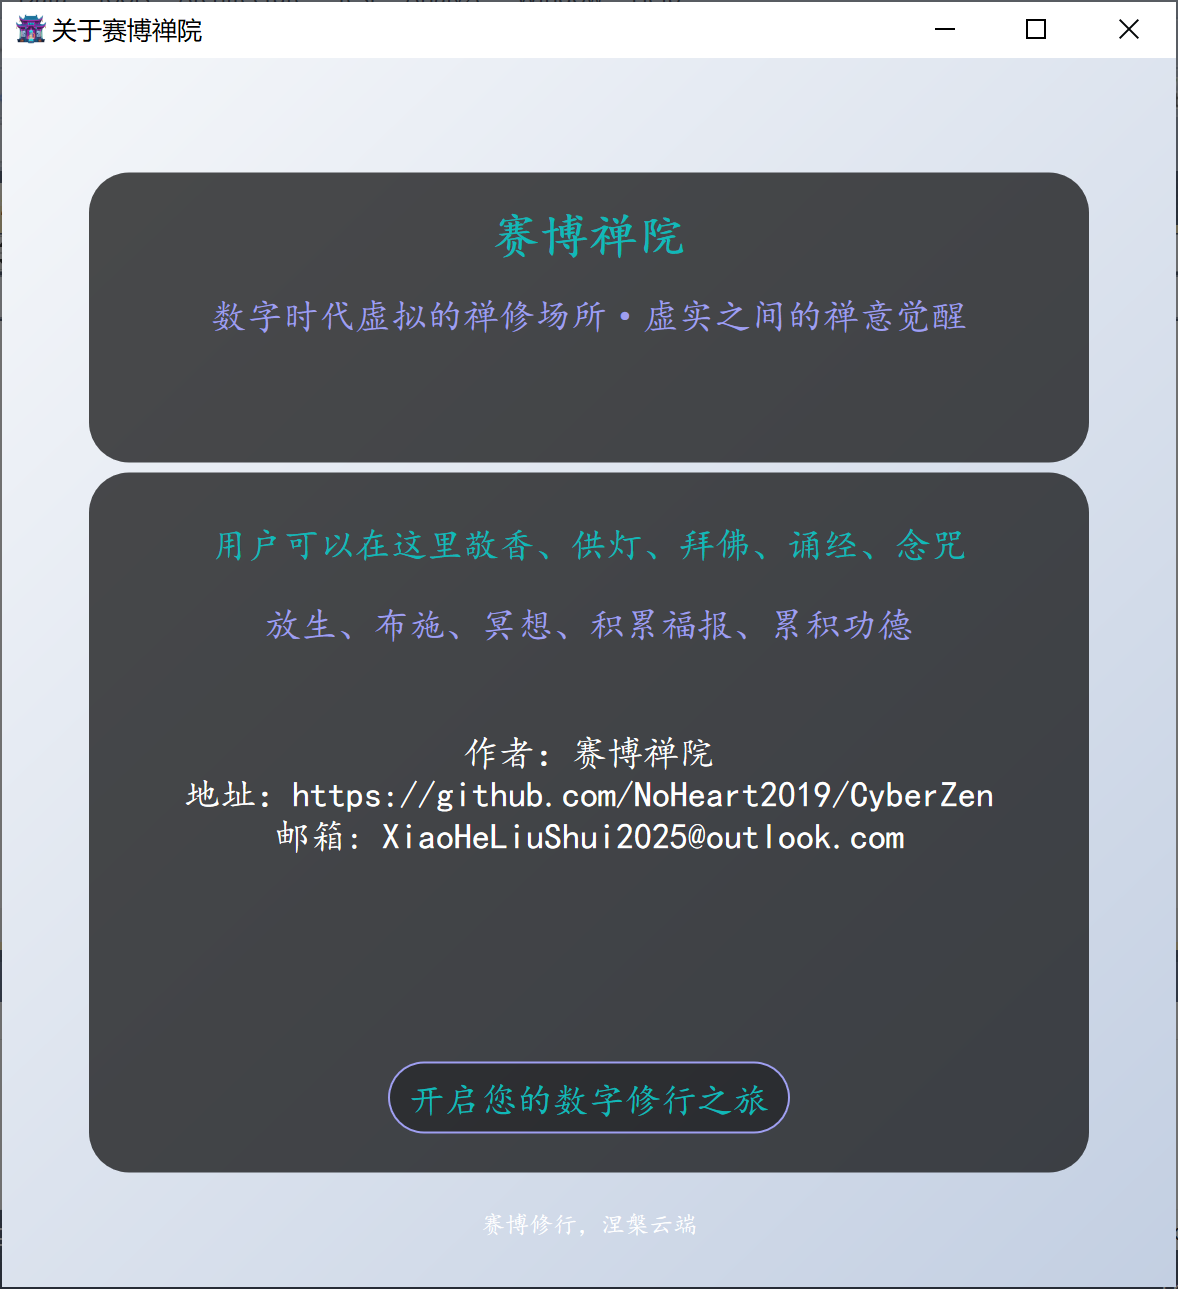
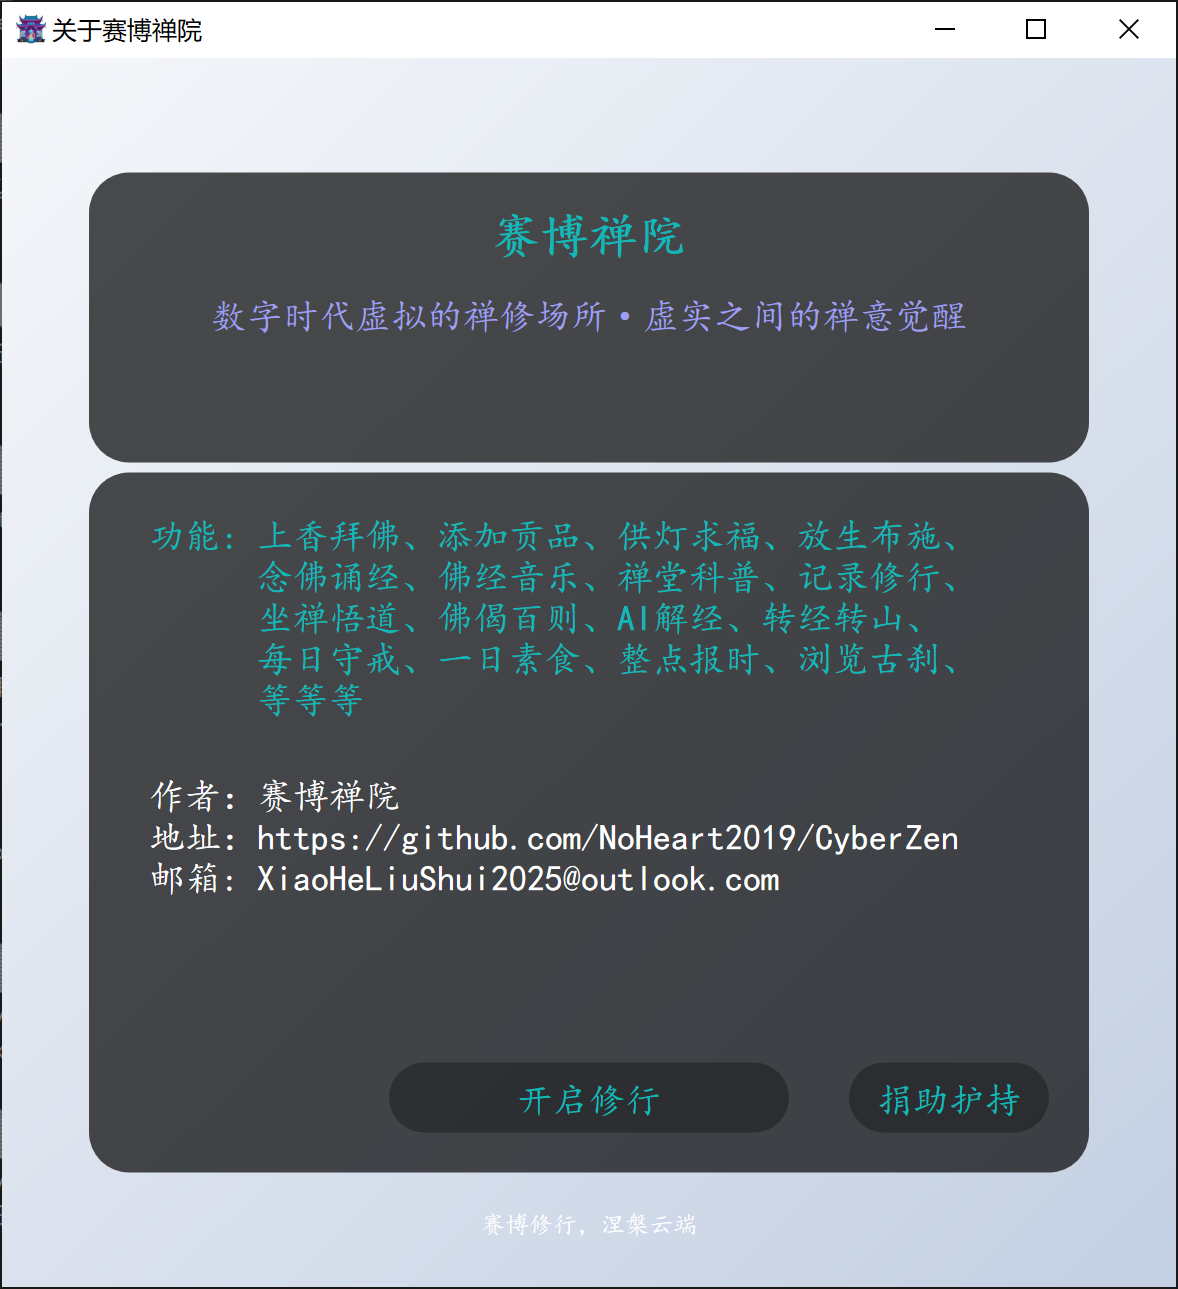
AI解心经-佛偈百则

diff --git a/README.md b/README.md
@@ -34,8 +34,6 @@
 ![修行记录](功能介绍/修行记录.png)
 
 
-
-
 更换主图,多种主图供你选择
 
 ![更换主图](功能介绍/更换主图.png)
@@ -56,7 +54,7 @@
 
 ![赛博祈福](功能介绍/赛博祈福.gif)
 
-转神山
+转冈仁波齐
 
 ![转神山](功能介绍/冈仁波齐.gif)
 
@@ -84,7 +82,6 @@
 
 
 赛博化缘
-心若赛博，亦可成佛
 ![赛博化缘](功能介绍/赛博化缘.gif)
 
 赛博佛缘
@@ -119,17 +116,19 @@
 
 ![大悲咒](功能介绍/大悲咒.gif)
 
-赛博解经
-何为赛博金刚经？
-"赛博金刚经"是一个思想实验，将佛教经典《金刚经》的核心智慧移植到数字时代、人工智能和赛博朋克的语境中。
+AI解经
+本系列以《金刚经》与《心经》的经典偈颂为蓝本，通过“赛博解读”的方式，将古老的佛学智慧投射到现代职业场景中。<br>
+每一条内容均遵循“原文→白话翻译→原意阐释→职业化解读”的结构，旨在用东方哲学观照当代人的工作与生活——无论是医生面对病症、<br>
+厨师料理食材、程序员调试代码，还是化妆师修饰容颜、摄影师捕捉光影，都能从中看到“凡所有相，皆是虚妄”、“应无所住而生其心”等智慧的生动映照。<br>
+这不仅是一次跨界的文本实验，更是一份献给现代人的“职业心经”，希望为忙碌的日常带来片刻的省思与清凉。 <br>
 
-它并非真实存在的经典，而是用现代科技语言重新探讨古老智慧的尝试，在数据流、算法和虚拟现实中寻找"空性"的真谛。
+![AI解经-金刚经](功能介绍/AI解金刚经.gif)
+![AI解经-心经](功能介绍/AI解心经.gif)
 
-通过这种文化混搭，我们得以在数字幻海中思考何为真实，何为自由，以及在技术高度发达的时代如何保持心灵的觉醒。
-
-![赛博解经](功能介绍/赛博解经.gif)
-
-
+佛偈（fó jì），简称“偈”或“偈语”，是佛教经典中一种独特的文体，源于梵语“Gāthā”（伽陀），意为颂、诗颂或孤起颂。 <br>
+它通常以诗歌的形式出现，语言凝练、韵律优美，用于概括佛法义理、表达修行感悟或作为禅宗祖师传法的凭证。 <br>
+佛偈百则 <br>
+![佛偈百则](功能介绍/佛偈百则.gif)
 
 
 
